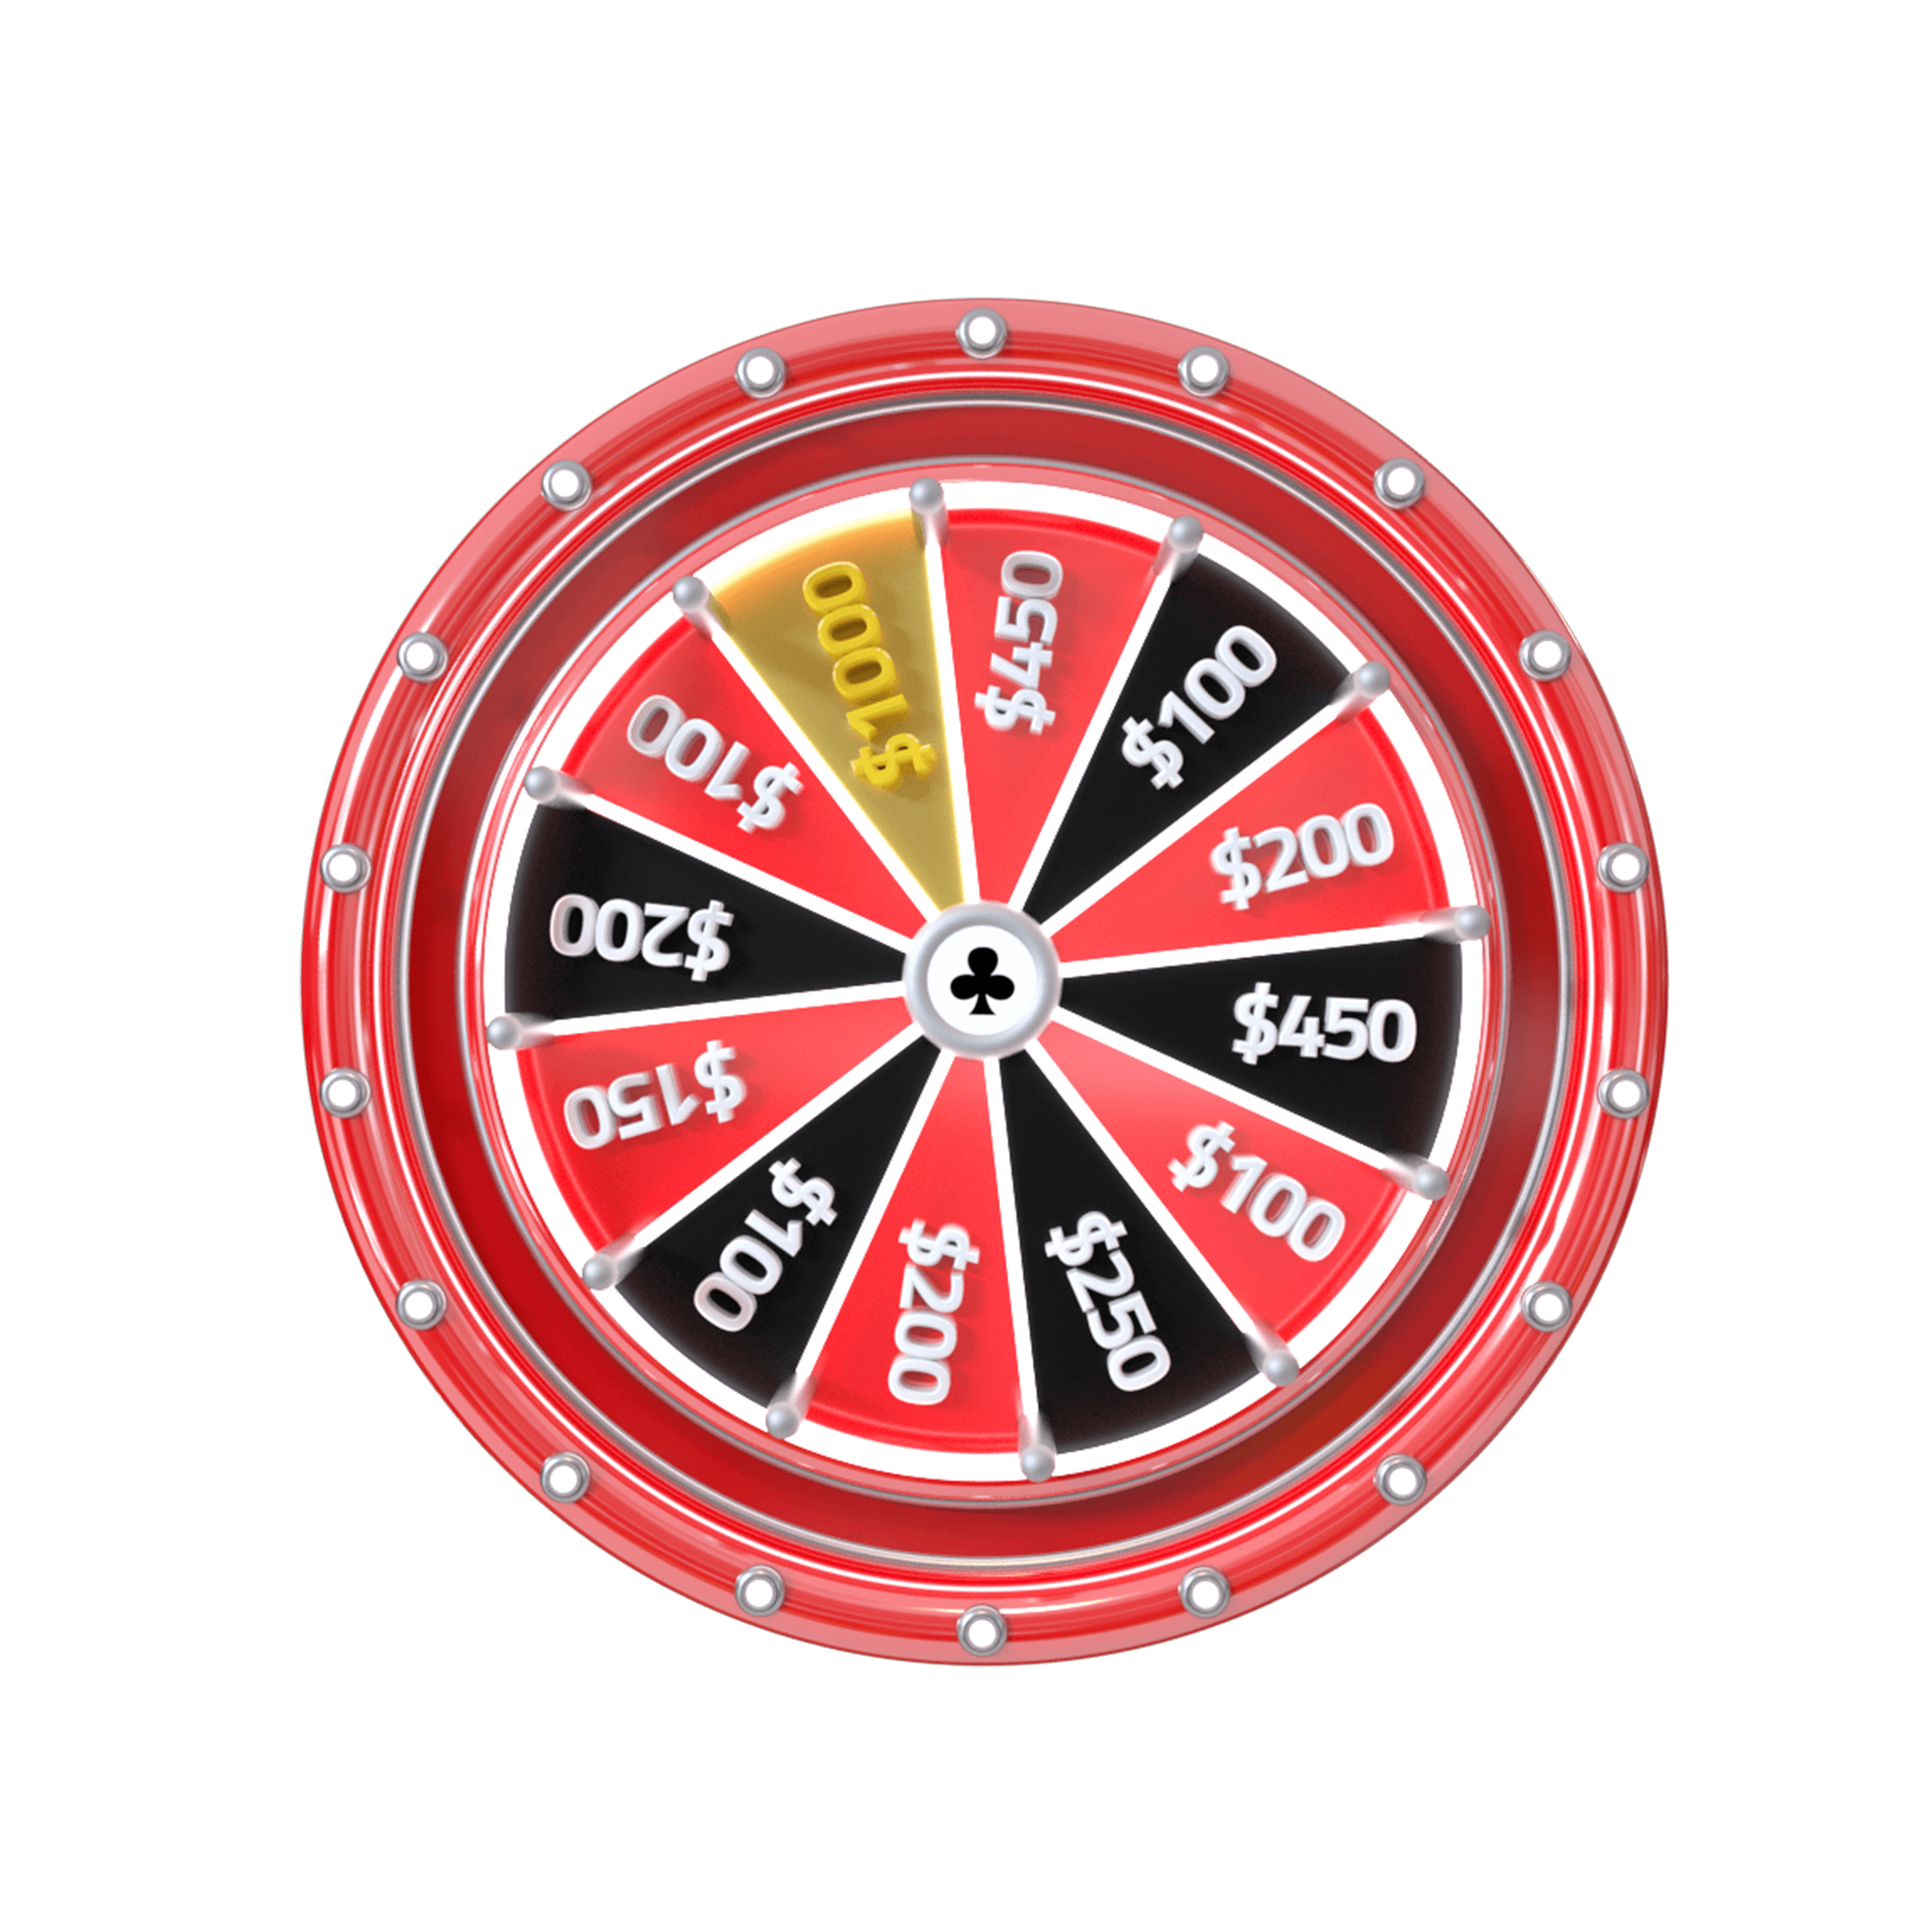
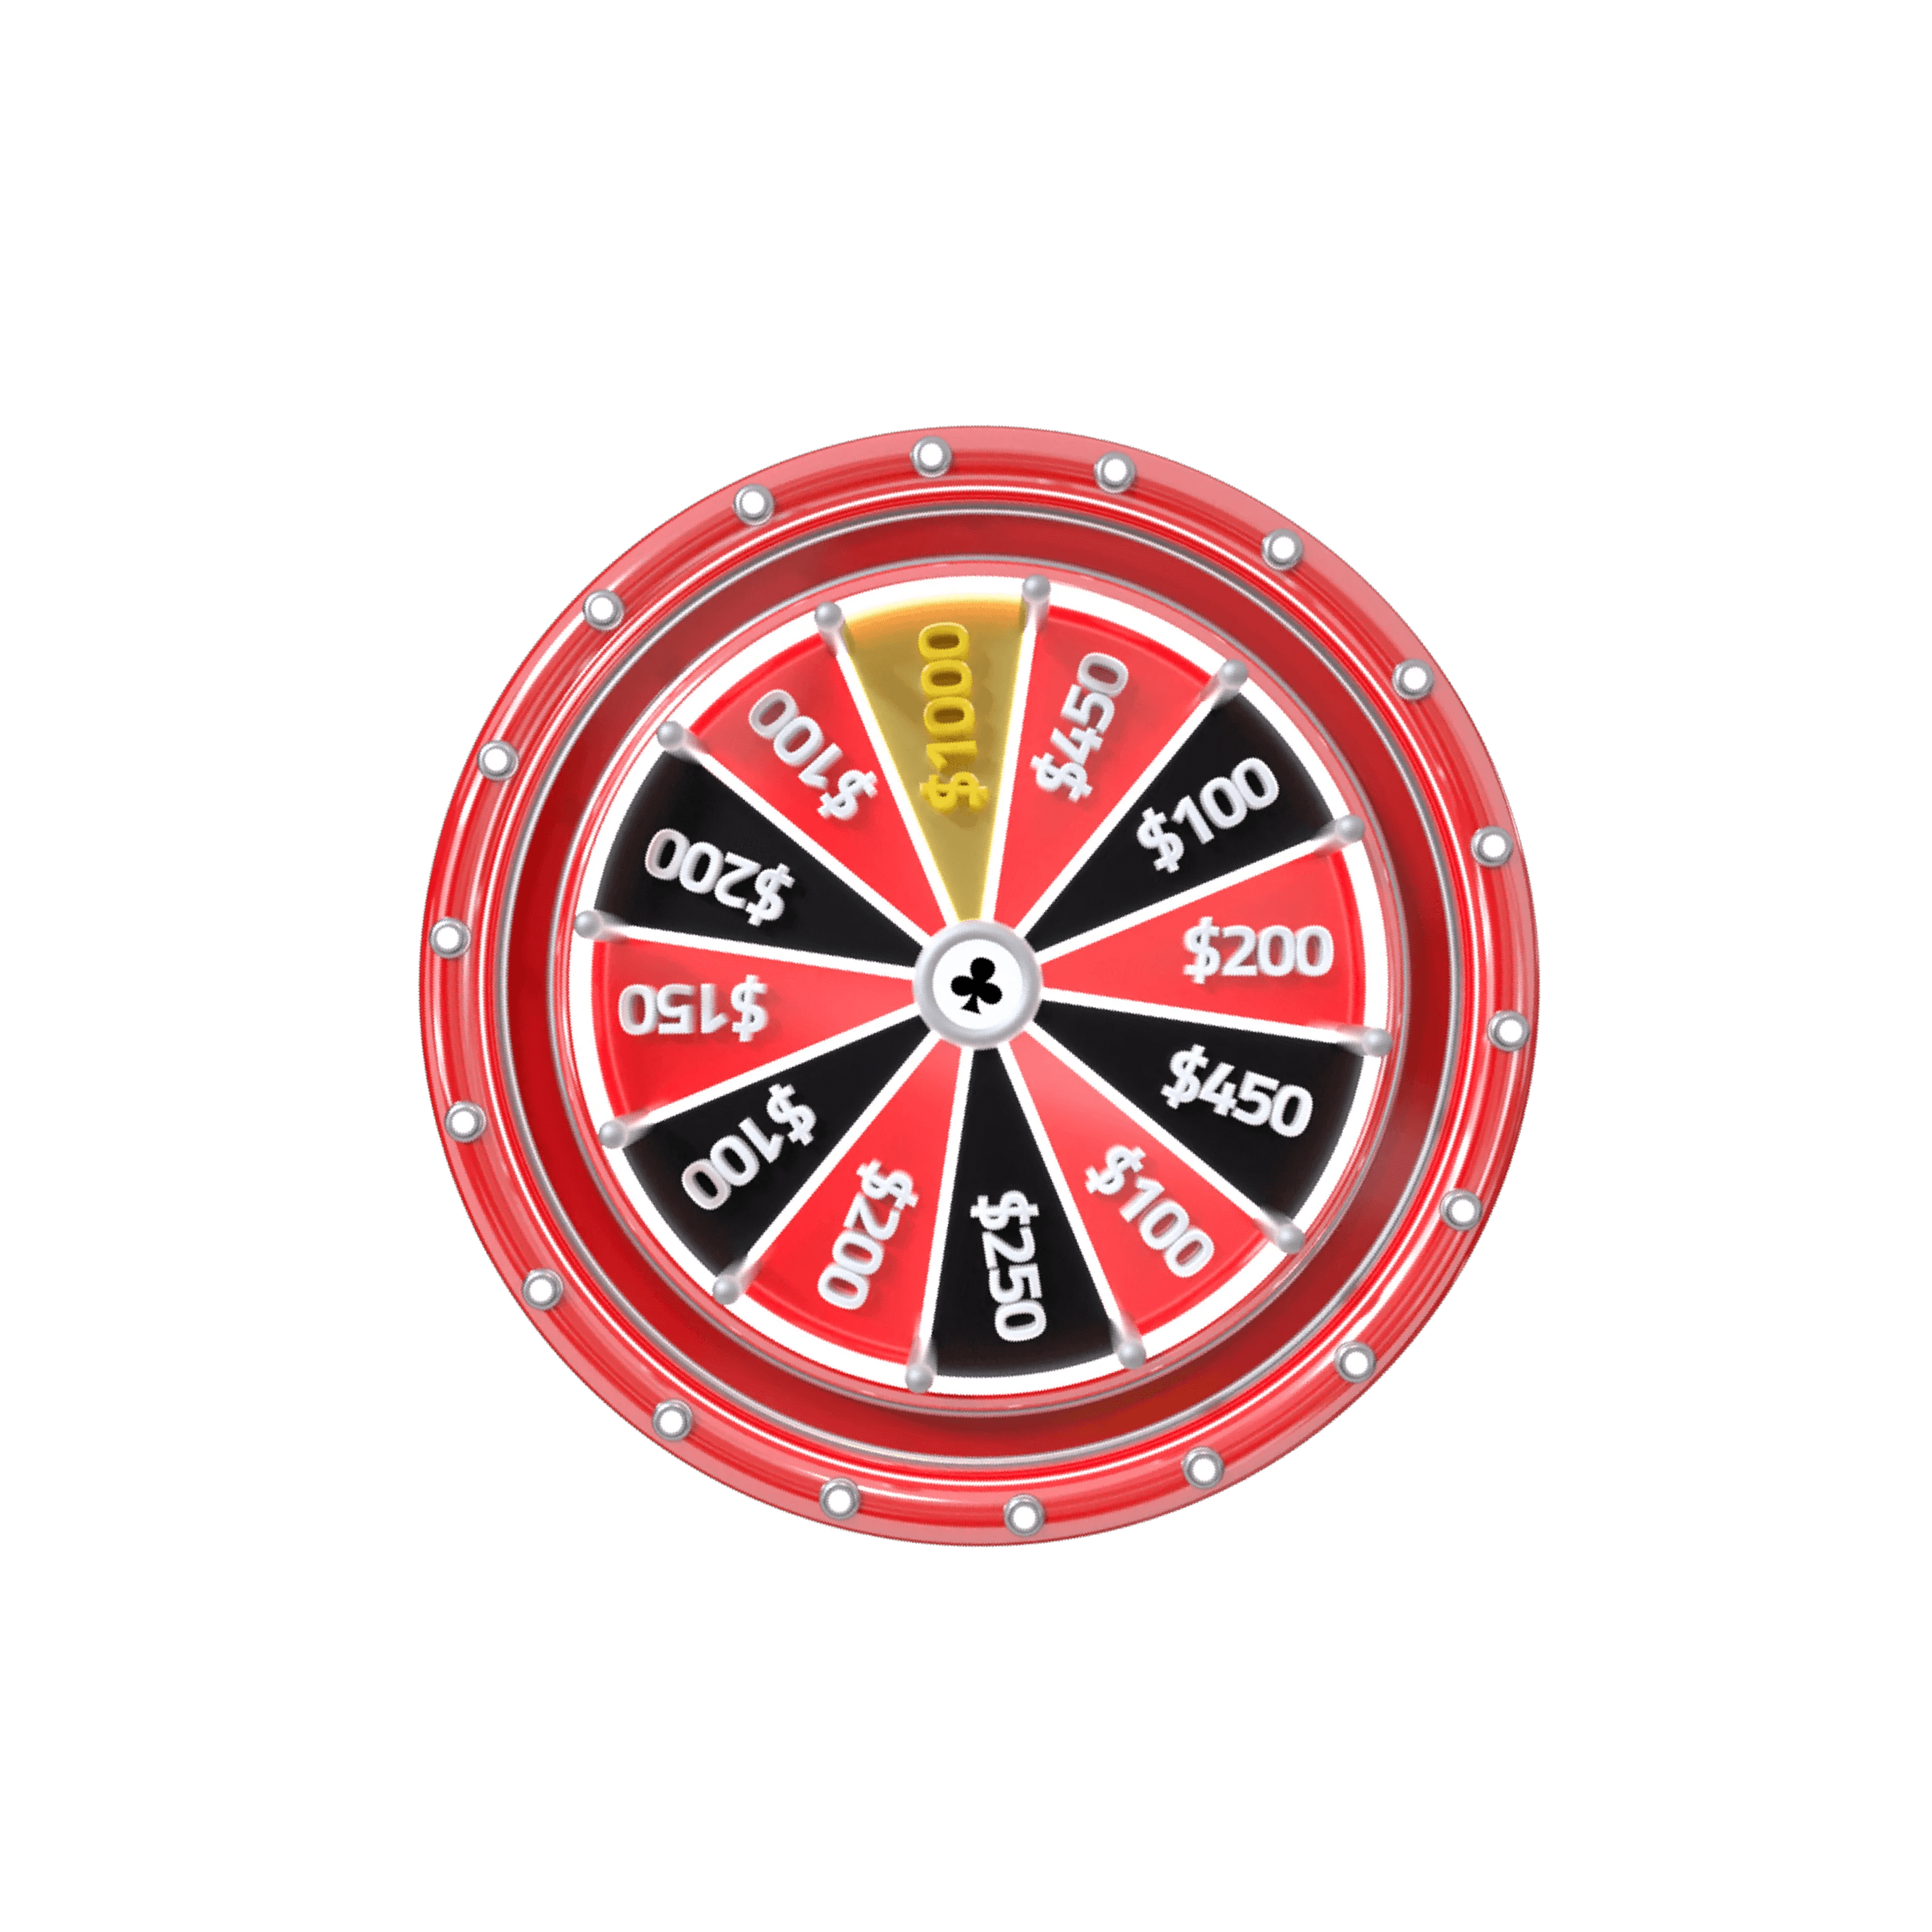
refactor scale

diff --git a/src/classes/Wheel.ts b/src/classes/Wheel.ts
@@ -1,8 +1,10 @@
 import * as PIXI from "pixi.js";
+import gsap from "gsap";
 
 import { Game } from "./Game";
 
-import { IBet, IPrizeSectors, IScaleSprite } from "../interfaces/interface";
+import { IBet, IPrizeSectors } from "../interfaces/interface";
+import { AssetsManager } from "./AssetsManager";
 
 export class Wheel extends PIXI.Sprite {
   private app!: PIXI.Application;
@@ -10,7 +12,6 @@ export class Wheel extends PIXI.Sprite {
   private rotateTicker: PIXI.TickerCallback<unknown> | null = null;
   private arrow!: PIXI.Sprite;
   private sectorWidth: number = 30;
-  private pointerOffset: number = 15;
   public prizeSectors: IPrizeSectors[] = [];
   public isWin: boolean = false;
 
@@ -36,7 +37,7 @@ export class Wheel extends PIXI.Sprite {
     skeleton.drawCircle(centerX, centerY, radius);
 
     for (let i = 0; i < this.prizeSectors.length; i++) {
-      const angle: number = i * this.sectorWidth + this.pointerOffset;
+      const angle: number = i * this.sectorWidth;
       const radian: number = angle * (Math.PI / 180);
 
       skeleton.moveTo(centerX, centerY);
@@ -60,13 +61,13 @@ export class Wheel extends PIXI.Sprite {
 
     skeleton.lineStyle(3, 0xff0000);
     skeleton.moveTo(centerX, centerY - radius);
-    skeleton.lineTo(centerX, centerY - radius - 20);
+    skeleton.lineTo(centerX, centerY - radius - 30);
 
     this.app.stage.addChild(skeleton);
   }
 
   private drawArrowWheel(): void {
-    const arrowTexture: PIXI.Texture = PIXI.Texture.from("arrow");
+    const arrowTexture: PIXI.Texture = AssetsManager.getTexture("arrow");
     this.arrow = new PIXI.Sprite(arrowTexture);
     this.setPosition(
       this.arrow,
@@ -74,33 +75,32 @@ export class Wheel extends PIXI.Sprite {
       this.y - this.height / 2 + this.height / 6,
     );
     this.arrow.rotation = Math.PI;
-    const scalePosition: IScaleSprite = Game.updateScale(this.arrow, 10, 10);
-    this.arrow.scale.set(scalePosition.scaleX, scalePosition.scaleY);
+    Game.updateScale(this.arrow, 10, 10);
 
     this.app.stage.addChild(this.arrow);
   }
 
-  private getWinningPrize(rotation: number): IBet | null {
-    let angleDeg =
-      (360 - ((rotation * 180) / Math.PI - this.pointerOffset)) % 360;
-    if (angleDeg < 0) angleDeg += 360;
+  public getWinningPrize(rotation: number): IPrizeSectors | null {
+    const degrees: number = (rotation * 180) / Math.PI;
+    const normalizedAngle: number = Math.round((360 - (degrees % 360)) % 360);
 
-    const prize = this.prizeSectors.find(({ deg: [start, end] }) => {
-      if (start < end) {
-        return angleDeg >= start && angleDeg < end;
-      } else {
-        return angleDeg >= start || angleDeg < end;
-      }
-    });
-
-    return prize ? { money: prize.money, color: prize.color } : null;
+    return (
+      this.prizeSectors.find((sector) => {
+        const [start, end] = sector.deg;
+        if (start < end) {
+          return normalizedAngle >= start && normalizedAngle < end;
+        } else {
+          return normalizedAngle >= start || normalizedAngle < end;
+        }
+      }) || null
+    );
   }
 
   public addWheel(): void {
     this.app.stage.addChild(this);
-    this.rotation = (this.pointerOffset * Math.PI) / 180;
+    this.pivot.set(0.5, 0.5);
     this.drawArrowWheel();
-    // this.drawDebugWheelSkeleton();
+    this.drawDebugWheelSkeleton();
   }
 
   public setPosition(sprite: PIXI.Sprite, x: number, y: number): void {

diff --git a/src/classes/Game.ts b/src/classes/Game.ts
@@ -3,9 +3,15 @@ import * as PIXI from "pixi.js";
 import { Wheel } from "./Wheel";
 import { Menu } from "./Menu";
 
-import { isMobile, isTablet } from "../utils/utils";
+import {
+  currentHeight,
+  currentWidth,
+  isMobile,
+  isTablet,
+} from "../utils/utils";
 
-import { IPrizeSectors, IScaleSprite } from "../interfaces/interface";
+import { IPrizeSectors } from "../interfaces/interface";
+import { AssetsManager } from "./AssetsManager";
 
 export class Game extends PIXI.Container {
   private app!: PIXI.Application;
@@ -92,13 +98,12 @@ export class Game extends PIXI.Container {
   }
 
   private loadWheel(): void {
-    const wheelTexture: PIXI.Texture = PIXI.Texture.from("wheel");
+    const wheelTexture: PIXI.Texture = AssetsManager.getTexture("wheel");
 
     this.wheel = new Wheel(wheelTexture, this.app, this, this.prizeSectors);
-    const scalePosition: IScaleSprite = this.isTablet
-      ? Game.updateScale(this.wheel, 95, 50)
-      : Game.updateScale(this.wheel, 85, 90);
-    this.wheel.setScale(scalePosition.scaleX, scalePosition.scaleY);
+
+    if (this.isTablet) Game.updateScale(this.wheel, 90, 60);
+    else Game.updateScale(this.wheel, 80, 90);
 
     this.wheel.setPosition(
       this.wheel,
@@ -111,17 +116,9 @@ export class Game extends PIXI.Container {
   private loadMenu(): void {
     this.menu = new Menu(this.app, this.wheel, this.prizeSectors, this);
 
-    const scalePosition: IScaleSprite = this.isMobile ? Game.updateScale(
-      this.menu.spinButton,
-      45,
-      40,
-    ) : Game.updateScale(
-      this.menu.spinButton,
-      35,
-      35,
-    );
+    if (this.isTablet) Game.updateScale(this.menu.spinButton, 45, 40);
+    else Game.updateScale(this.menu.spinButton, 35, 35);
 
-    this.menu.spinButton.scale.set(scalePosition.scaleX, scalePosition.scaleY);
     const spinButtonX = this.app.screen.width / 2;
     const spinButtonY =
       this.app.screen.height - (window.innerHeight / 100) * 10;
@@ -152,29 +149,21 @@ export class Game extends PIXI.Container {
     this.app.stage.addChild(this.balanceText);
   }
 
-  static updateScale(
-    sprite: PIXI.Sprite,
-    widthPercent: number,
-    heightPercent: number,
-  ): IScaleSprite {
-    const vw: number = window.innerWidth / 100;
-    const vh: number = window.innerHeight / 100;
+  static updateScale(sprite: PIXI.Sprite, vw: number, vh: number): void {
+    const screenWidth: number = currentWidth();
+    const screenHeight: number = currentHeight();
 
-    const desiredWidth: number = vw * widthPercent;
-    const desiredHeight: number = vh * heightPercent;
+    const targetWidth: number = (screenWidth * vw) / 100;
+    const targetHeight:number = (screenHeight * vh) / 100;
 
-    const aspectRatio: number = sprite.width / sprite.height;
+    const originalWidth: number = sprite.texture.width;
+    const originalHeight: number = sprite.texture.height;
 
-    const scaleX: number = desiredWidth / sprite.width;
-    const scaleY: number = desiredHeight / sprite.height;
+    const scaleX: number = targetWidth / originalWidth;
+    const scaleY: number = targetHeight / originalHeight;
 
-    const scale = Math.min(scaleX, scaleY);
+    const finalScale: number = Math.min(scaleX, scaleY);
 
-    const scalePercent: IScaleSprite = {
-      scaleX: scale,
-      scaleY: scale / aspectRatio,
-    };
-
-    return scalePercent;
+    sprite.scale.set(finalScale);
   }
 }

diff --git a/src/classes/Boot.ts b/src/classes/Boot.ts
@@ -1,16 +1,11 @@
 import * as PIXI from "pixi.js";
 
 import { Game } from "./Game";
-
-import bg from "/bg-1.webp";
-import wheel from "/wheel.webp";
-import btnRoll from "/btn-roll.webp";
-import arrow from "/arrow.webp";
+import { AssetsManager } from "./AssetsManager";
 
 export class Boot {
   private app!: PIXI.Application;
   private appView!: HTMLElement;
-  private gameLoader: PIXI.Loader = PIXI.Loader.shared;
 
   constructor(app: PIXI.Application, appView: HTMLElement) {
     this.app = app;
@@ -19,28 +14,13 @@ export class Boot {
   }
 
   private async init(): Promise<void> {
+    const error: Error = new Error("Boot doesn't init");
     try {
-      await this.loadAssets();
+      await AssetsManager.load();
       console.log("loading complete");
       new Game(this.app, this.appView);
-    } catch (error: unknown) {
-      console.error(new Error(`can't loading ${error}`));
+    } catch {
+      console.error(error.message);
     }
-  }
-
-  private loadAssets(): Promise<void> {
-    return new Promise((resolve, reject) => {
-      this.gameLoader
-        .add("bg", bg)
-        .add("wheel", wheel)
-        .add("btnRoll", btnRoll)
-        .add("arrow", arrow)
-        .load(() => {
-          resolve();
-        })
-        .onError.add((error: unknown) => {
-          reject(`${error}`);
-        });
-    });
   }
 }

diff --git a/src/classes/AssetsManager.ts b/src/classes/AssetsManager.ts
@@ -1,0 +1,32 @@
+import * as PIXI from "pixi.js";
+
+import bg from "/bg-1.webp";
+import wheel from "/wheel.webp";
+import btnRoll from "/btn-roll.webp";
+import arrow from "/arrow.webp";
+
+export class AssetsManager {
+  private static loader = PIXI.Loader.shared;
+
+  static load(): Promise<void> {
+    const error: Error = new Error("Problem with assets");
+
+    return new Promise((resolve, reject) => {
+      this.loader
+        .add("bg", bg)
+        .add("wheel", wheel)
+        .add("btnRoll", btnRoll)
+        .add("arrow", arrow)
+        .load(() => resolve())
+        .onError.add(() => reject(error.message));
+    });
+  }
+
+  static getTexture(key: string): PIXI.Texture {
+    const resource = this.loader.resources[key];
+    if (!resource || !resource.texture) {
+      throw new Error(`Texture "${key}" not found or not loaded`);
+    }
+    return resource.texture;
+  }
+}

diff --git a/src/utils/utils.ts b/src/utils/utils.ts
@@ -6,5 +6,8 @@ export const tabletWidth: number = 767;
 export const currentWidth: innerWidth = () =>
   Math.max(document.documentElement?.clientWidth, window.innerWidth || 0);
 
+export const currentHeight: innerWidth = () =>
+  Math.max(document.documentElement?.clientHeight, window.innerHeight || 0);
+
 export const isTablet: isDesktopOrNot = () => currentWidth() < tabletWidth;
 export const isMobile: isDesktopOrNot = () => currentWidth() < mobileWidth;
